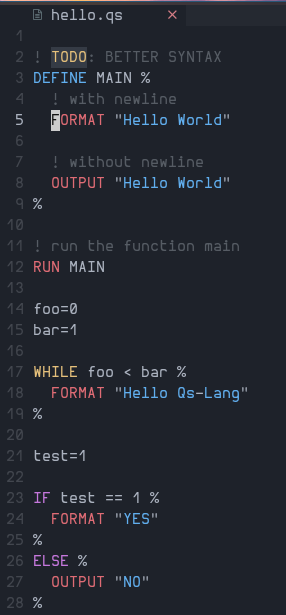
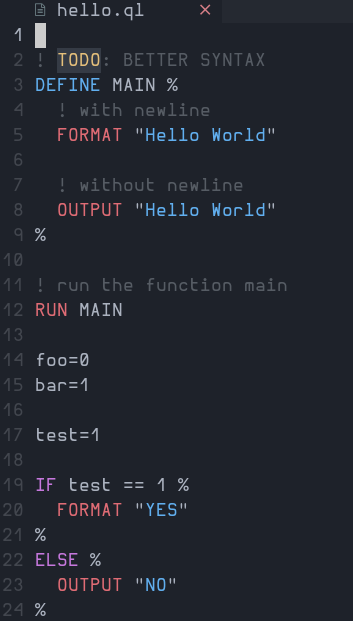
changes the filetype to ql

diff --git a/README.md b/README.md
@@ -1,5 +1,5 @@
-# Qs-Lang
-Qs Programming Language written in Python
+# QLang
+Ql Programming Language written in Python
 
 SERVER:
 
